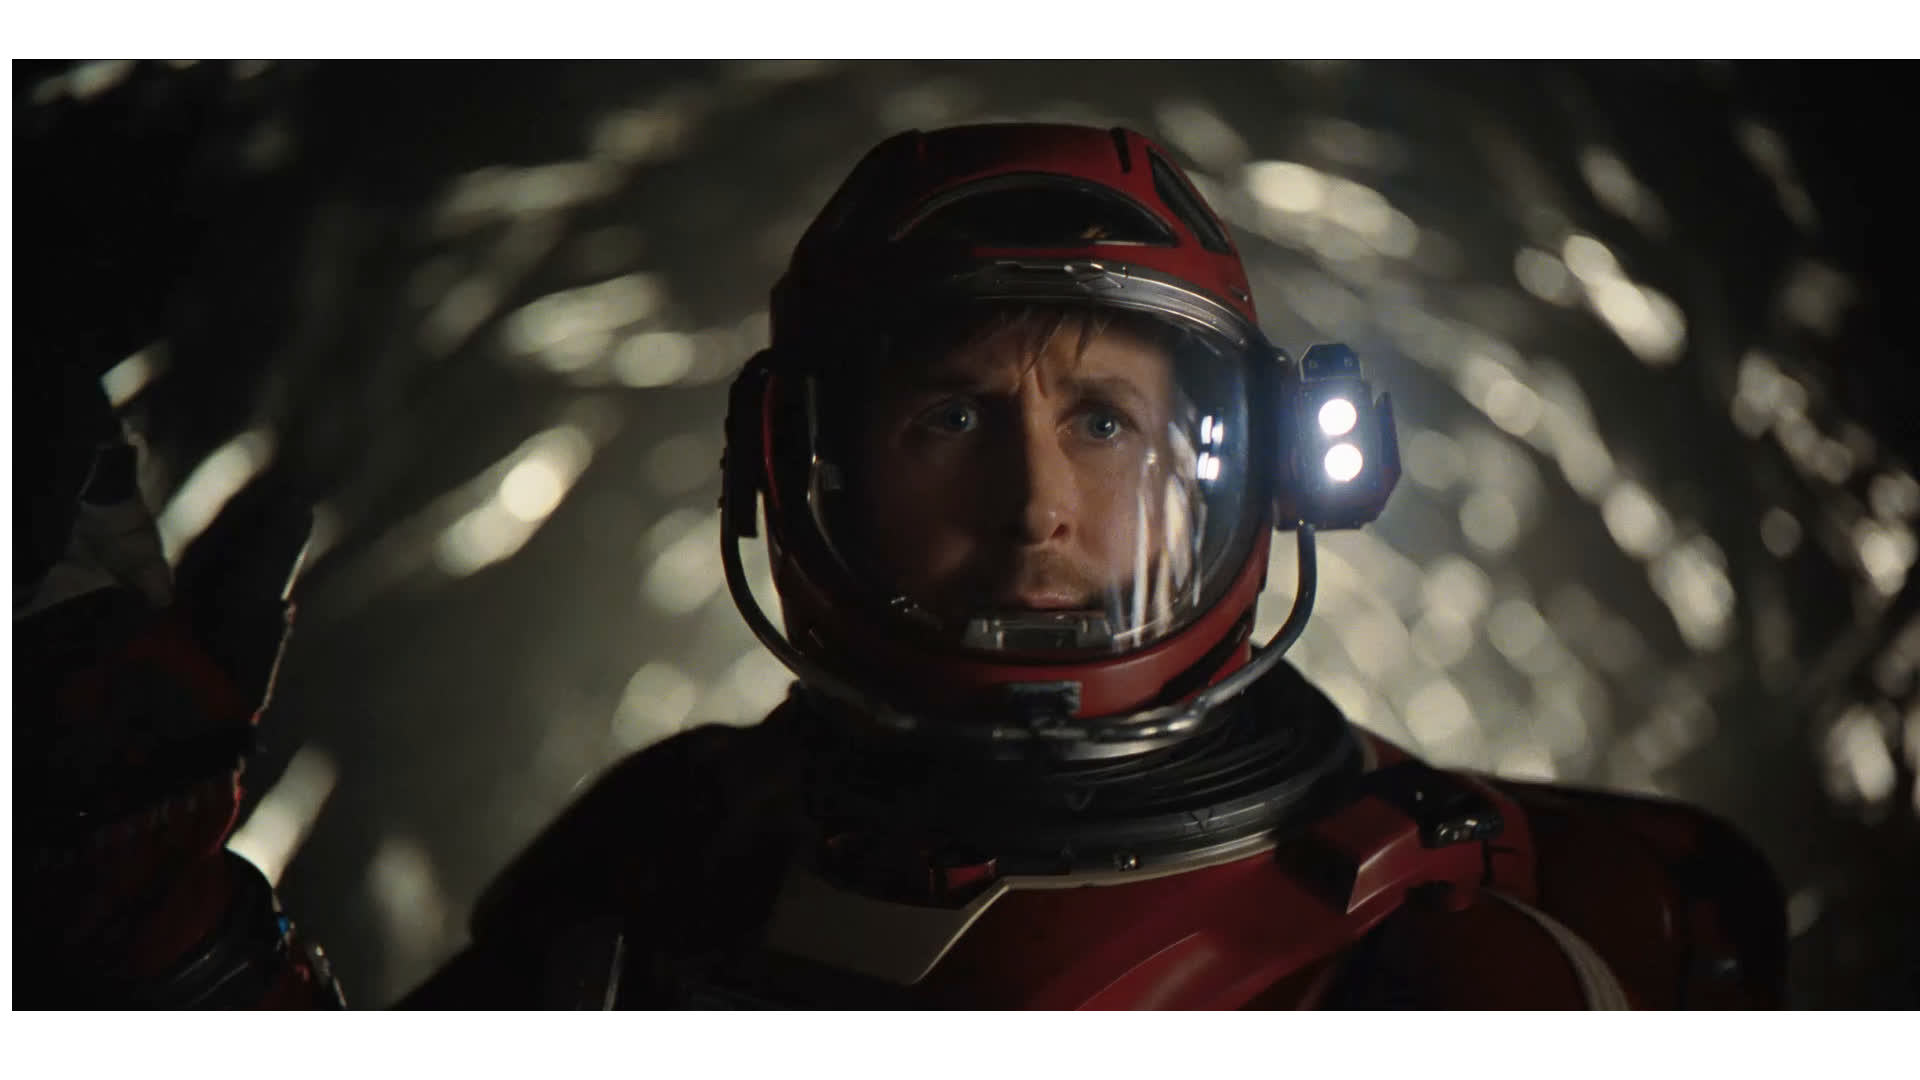
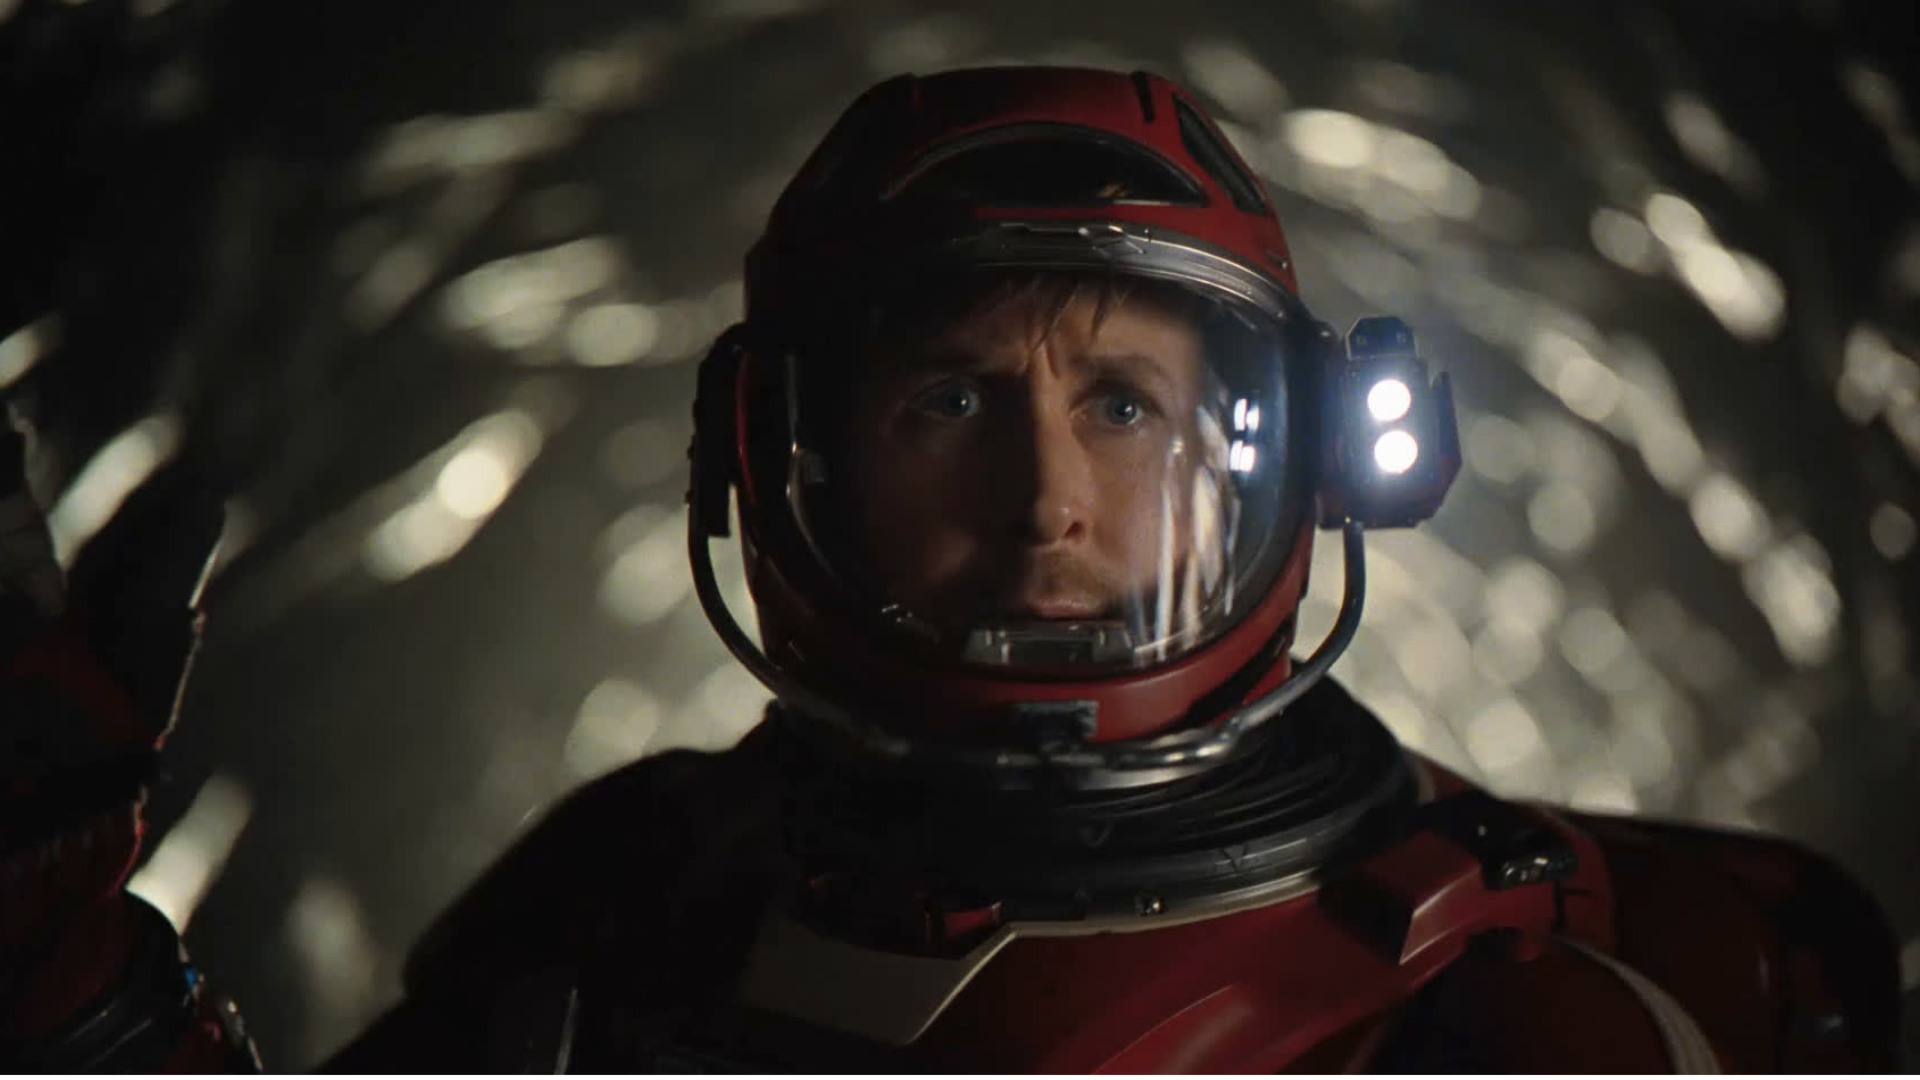
se modifica page estrenos

diff --git a/pages/estrenos.html b/pages/estrenos.html
@@ -8,10 +8,12 @@
     <link rel="preconnect" href="https://fonts.googleapis.com">
     <link rel="preconnect" href="https://fonts.gstatic.com" crossorigin>
     <link href="https://fonts.googleapis.com/css2?family=Inter:ital,opsz,wght@0,14..32,100..900;1,14..32,100..900&display=swap" rel="stylesheet">
-    <link rel="icon" type="image/icon" href="/img/favicon-32x32.png">
+    <link rel="icon" type="image/icon" href="../img/favicon-32x32.png">
     <link href="https://cdn.jsdelivr.net/npm/bootstrap@5.3.8/dist/css/bootstrap.min.css" rel="stylesheet" integrity="sha384-sRIl4kxILFvY47J16cr9ZwB07vP4J8+LH7qKQnuqkuIAvNWLzeN8tE5YBujZqJLB" crossorigin="anonymous">
     <link rel="stylesheet" href="../css/styles.css">
-    <title>Estrenos</title>
+    <title>roako. | Estrenos</title>
+    <meta name="description" content="Descubrí los ultimos estrenos en roako.">
+    <meta name="author" content="Agus Alonzo">
 </head>
 
 <body>
@@ -34,30 +36,44 @@
 </header> 
 
   <main>
-        <div id="carouselExample" class="carousel slide">
-            <div class="carousel-inner">
-              <div class="carousel-item active">
-                <img src="../img/spiderman2.avif" class="d-block w-100" alt="...">
-              </div>
-              <div class="carousel-item">
-                <img src="../img/odisea.webp" class="d-block w-100" alt="...">
-              </div>
-              <div class="carousel-item">
-                <img src="../img/disclousureday2.jpg" class="d-block w-100" alt="...">
-              </div>
-              <div class="carousel-item">
-                <img src="../img/obsession1.png" class="d-block w-100" alt="...">
-              </div>
-            </div>
-            <button class="carousel-control-prev" type="button" data-bs-target="#carouselExample" data-bs-slide="prev">
-              <span class="carousel-control-prev-icon" aria-hidden="true"></span>
-              <span class="visually-hidden">Previous</span>
-            </button>
-            <button class="carousel-control-next" type="button" data-bs-target="#carouselExample" data-bs-slide="next">
-              <span class="carousel-control-next-icon" aria-hidden="true"></span>
-              <span class="visually-hidden">Next</span>
-            </button>
+    <h1 class="titulo1 mb-0">Todas las novedades, en un solo lugar</h1>
+    <div id="carouselExampleCaptions" class="carousel slide">
+      <div class="carousel-indicators">
+        <button type="button" data-bs-target="#carouselExampleCaptions" data-bs-slide-to="0" class="active" aria-current="true" aria-label="Slide 1"></button>
+        <button type="button" data-bs-target="#carouselExampleCaptions" data-bs-slide-to="1" aria-label="Slide 2"></button>
+        <button type="button" data-bs-target="#carouselExampleCaptions" data-bs-slide-to="2" aria-label="Slide 3"></button>
+      </div>
+      <div class="carousel-inner">
+        <div class="carousel-item active">
+          <img src="../img/spiderman1.avif" class="d-block w-100" alt="Spiderman">
+          <div class="carousel-caption d-flex flex-column justify-content-center align-items-center">
+            <h5 class="displ">Spiderman: Brand New Day</h5>
           </div>
+        </div>
+        <div class="carousel-item">
+          <img src="..." class="d-block w-100" alt="...">
+          <div class="carousel-caption d-none d-md-block">
+            <h5>Second slide label</h5>
+            <p>Some representative placeholder content for the second slide.</p>
+          </div>
+        </div>
+        <div class="carousel-item">
+          <img src="..." class="d-block w-100" alt="...">
+          <div class="carousel-caption d-none d-md-block">
+            <h5>Third slide label</h5>
+            <p>Some representative placeholder content for the third slide.</p>
+          </div>
+        </div>
+      </div>
+      <button class="carousel-control-prev" type="button" data-bs-target="#carouselExampleCaptions" data-bs-slide="prev">
+        <span class="carousel-control-prev-icon" aria-hidden="true"></span>
+        <span class="visually-hidden">Previous</span>
+      </button>
+      <button class="carousel-control-next" type="button" data-bs-target="#carouselExampleCaptions" data-bs-slide="next">
+        <span class="carousel-control-next-icon" aria-hidden="true"></span>
+        <span class="visually-hidden">Next</span>
+      </button>
+    </div>
     </main>
 
 

diff --git a/css/styles.css b/css/styles.css
@@ -32,6 +32,57 @@ button:focus-visible {
   border-radius: 4px;
 }
 
+/* --------- TITULOS --------- */
+
+.titulo1 {
+  background-color: #ff5900;
+  color: #eff6f6;
+  display: flex;
+  align-items: center;
+  justify-content: center;
+  font-size: 30px;
+  padding: 40px;
+  flex-wrap: wrap;
+
+}
+
+
+/* carrusel */
+
+/* --- CONTENEDOR PRINCIPAL DEL CARRUSEL --- */
+#carouselExampleCaptions {
+  height: 500px;
+  overflow: hidden;
+  
+}
+
+#carouselExampleCaptions .carousel-inner,
+#carouselExampleCaptions .carousel-item {
+  height: 100%;
+}
+
+/* --- IMÁGENES (Estilo Banner Ancho) --- */
+#carouselExampleCaptions .carousel-item img {
+  width: 100%;
+  height: 100%;
+  object-fit: cover; /* Recorta la foto sin deformarla */
+  object-position: top center;
+}
+
+/* --- TEXTO SOBRE LA IMAGEN (Centrado absoluto) --- */
+#carouselExampleCaptions .carousel-caption {
+  /* Estiramos la caja del texto sobre todo el slide */
+  top: 0;
+  bottom: 0;
+  left: 0;
+  right: 0;
+  padding: 0;
+  background-color: rgba(0, 0, 0, 0.5);
+  
+}
+
+
+
 /* NAVBAR */
 .navegacion {
   display: flex;

diff --git a/index.html b/index.html
@@ -6,10 +6,12 @@
     <link rel="preconnect" href="https://fonts.googleapis.com">
     <link rel="preconnect" href="https://fonts.gstatic.com" crossorigin>
     <link href="https://fonts.googleapis.com/css2?family=Inter:ital,opsz,wght@0,14..32,100..900;1,14..32,100..900&display=swap" rel="stylesheet">
-    <link rel="icon" type="image/icon" href="/img/favicon-32x32.png">
+    <link rel="icon" type="image/icon" href="./img/favicon-32x32.png">
     <link href="https://cdn.jsdelivr.net/npm/bootstrap@5.3.8/dist/css/bootstrap.min.css" rel="stylesheet" integrity="sha384-sRIl4kxILFvY47J16cr9ZwB07vP4J8+LH7qKQnuqkuIAvNWLzeN8tE5YBujZqJLB" crossorigin="anonymous">
     <link rel="stylesheet" href="./css/styles.css">
-    <title>roako.</title>
+    <title>roako. | Descubrí nuevas aventuras</title>
+    <meta name="description" content="Descubrí películas, series y reseñas en roako.">
+    <meta name="author" content="Agus Alonzo">
 </head>
 
 <body>

diff --git a/pages/peliculas.html b/pages/peliculas.html
@@ -8,10 +8,12 @@
     <link rel="preconnect" href="https://fonts.googleapis.com">
     <link rel="preconnect" href="https://fonts.gstatic.com" crossorigin>
     <link href="https://fonts.googleapis.com/css2?family=Inter:ital,opsz,wght@0,14..32,100..900;1,14..32,100..900&display=swap" rel="stylesheet">
-    <link rel="icon" type="image/icon" href="/img/favicon-32x32.png">
+    <link rel="icon" type="image/icon" href="../img/favicon-32x32.png">
     <link href="https://cdn.jsdelivr.net/npm/bootstrap@5.3.8/dist/css/bootstrap.min.css" rel="stylesheet" integrity="sha384-sRIl4kxILFvY47J16cr9ZwB07vP4J8+LH7qKQnuqkuIAvNWLzeN8tE5YBujZqJLB" crossorigin="anonymous">
     <link rel="stylesheet" href="../css/styles.css">
-    <title>Peliculas</title>
+    <title>roako. | Peliculas</title>
+    <meta name="description" content="Descubrí películas en roako.">
+    <meta name="author" content="Agus Alonzo">
 </head>
 
 <body>

diff --git a/pages/resenas.html b/pages/resenas.html
@@ -8,10 +8,12 @@
     <link rel="preconnect" href="https://fonts.googleapis.com">
     <link rel="preconnect" href="https://fonts.gstatic.com" crossorigin>
     <link href="https://fonts.googleapis.com/css2?family=Inter:ital,opsz,wght@0,14..32,100..900;1,14..32,100..900&display=swap" rel="stylesheet">
-    <link rel="icon" type="image/icon" href="/img/favicon-32x32.png">
+    <link rel="icon" type="image/icon" href="../img/favicon-32x32.png">
     <link href="https://cdn.jsdelivr.net/npm/bootstrap@5.3.8/dist/css/bootstrap.min.css" rel="stylesheet" integrity="sha384-sRIl4kxILFvY47J16cr9ZwB07vP4J8+LH7qKQnuqkuIAvNWLzeN8tE5YBujZqJLB" crossorigin="anonymous">
     <link rel="stylesheet" href="../css/styles.css">
-    <title>Reseñas</title>
+    <title>roako. | Reseñas</title>
+    <meta name="description" content="Descubrí las ultimas reseñas en roako.">
+    <meta name="author" content="Agus Alonzo">
 </head>
 
 <body>

diff --git a/pages/series.html b/pages/series.html
@@ -8,10 +8,12 @@
     <link rel="preconnect" href="https://fonts.googleapis.com">
     <link rel="preconnect" href="https://fonts.gstatic.com" crossorigin>
     <link href="https://fonts.googleapis.com/css2?family=Inter:ital,opsz,wght@0,14..32,100..900;1,14..32,100..900&display=swap" rel="stylesheet">
-    <link rel="icon" type="image/icon" href="/img/favicon-32x32.png">
+    <link rel="icon" type="image/icon" href="../img/favicon-32x32.png">
     <link href="https://cdn.jsdelivr.net/npm/bootstrap@5.3.8/dist/css/bootstrap.min.css" rel="stylesheet" integrity="sha384-sRIl4kxILFvY47J16cr9ZwB07vP4J8+LH7qKQnuqkuIAvNWLzeN8tE5YBujZqJLB" crossorigin="anonymous">
     <link rel="stylesheet" href="../css/styles.css">
-    <title>Series</title>
+    <title>roako. | Series</title>
+    <meta name="description" content="Descubrí series para maratonear en roako.">
+    <meta name="author" content="Agus Alonzo">
 </head>
 
 <body>